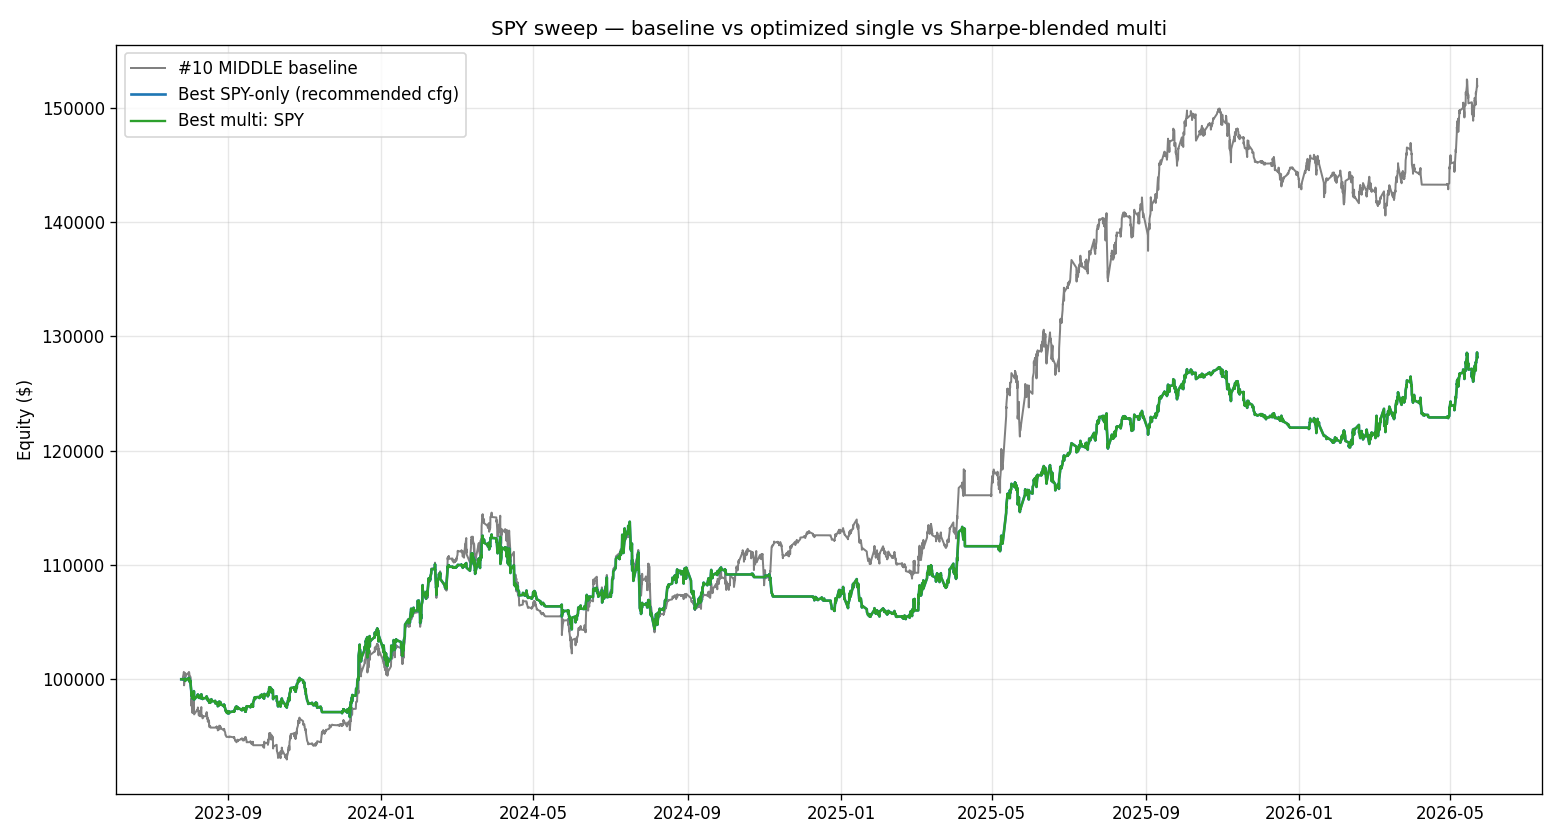
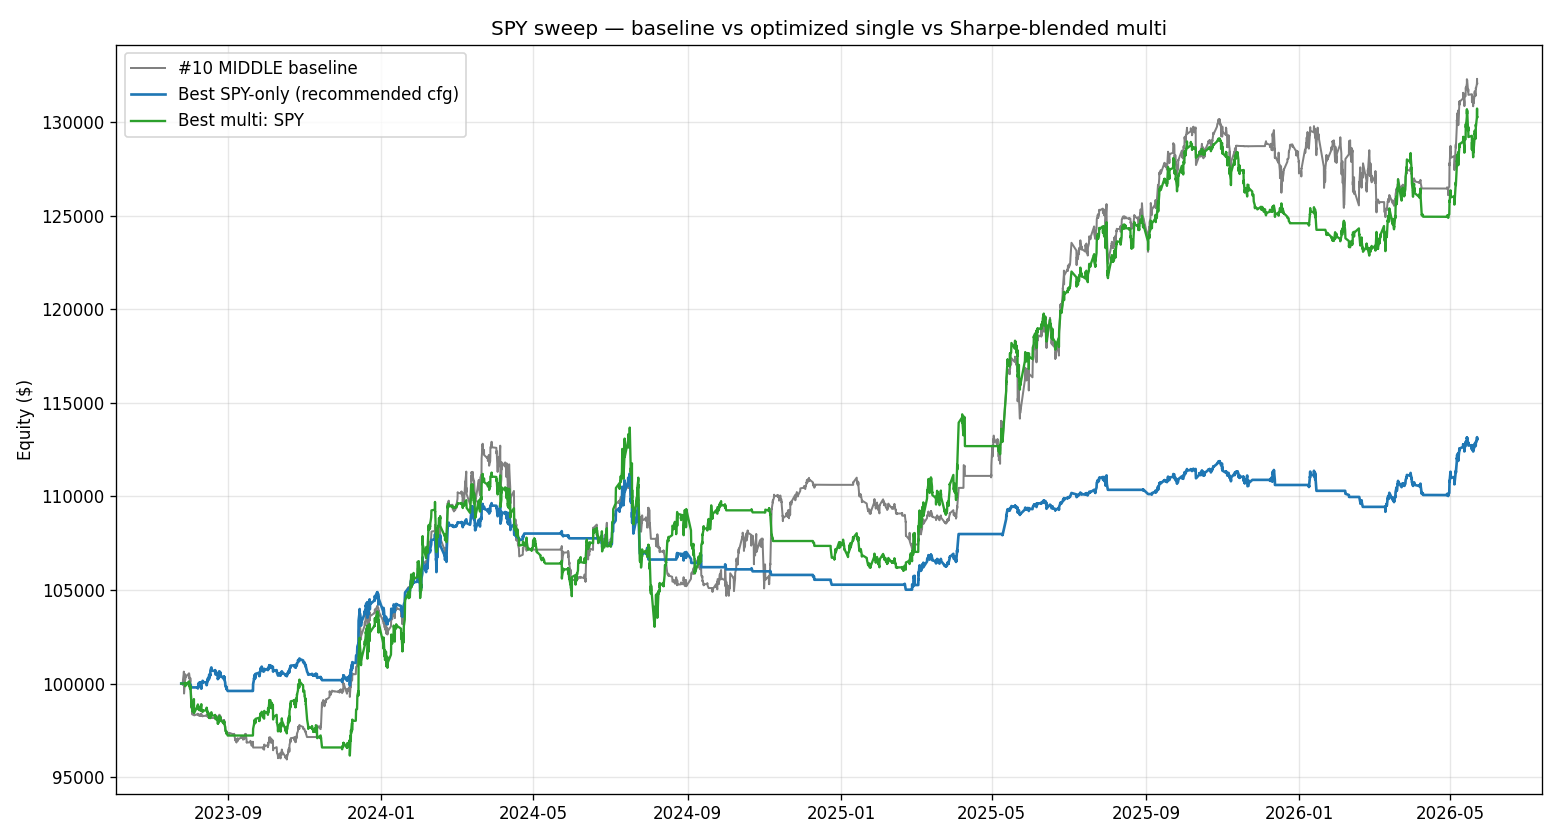
config: trim universe to SPY + GLD + PAXGUSDT (drop DIA)
DIA can't be diversified-into on Infinex (single-venue perp DEX), so
running it added Discord noise without execution value. Three remaining:
  - SPY: equity paper-trading reference
  - GLD: long-history gold baseline (yfinance, 2.83yr clean data)
  - PAXGUSDT: live Infinex perp signal, gated by COMBO_E regime filter

diff --git a/_research_spy_sweep.py b/_research_spy_sweep.py
@@ -80,14 +80,18 @@ def _metrics(eq, tr):
     )
 
 
-def _run(df_base, cfg, symbol="SPY"):
-    """Inject custom-cfg signals onto base df and run portfolio."""
+def _run(df_base, cfg, symbol="SPY", include_trend_carry=False):
+    """Inject custom-cfg signals onto base df and run portfolio.
+
+    By default isolates the pullback sleeve only — that matches the
+    `_research_edge.py` per-strategy attribution numbers (CAGR 12.5% /
+    DD 7.9% / Sharpe 0.52) which is the user's stated baseline.
+    Set include_trend_carry=True to backtest the combined portfolio."""
     df = pullback_signals(df_base, cfg=cfg)
-    spec_pb = StrategySpec("pullback", cfg, pb_exit(cfg))
-    # trend_carry stays at production cfg — sweep targets pullback knobs.
-    spec_tc = StrategySpec("trend_carry", TRENDCARRY, tc_exit(TRENDCARRY))
-    bt = run_portfolio(df, [spec_pb, spec_tc],
-                       symbol=symbol, initial_capital=START_CAP)
+    specs = [StrategySpec("pullback", cfg, pb_exit(cfg))]
+    if include_trend_carry:
+        specs.append(StrategySpec("trend_carry", TRENDCARRY, tc_exit(TRENDCARRY)))
+    bt = run_portfolio(df, specs, symbol=symbol, initial_capital=START_CAP)
     return _metrics(bt["equity_curve"], bt["trades"])
 
 

diff --git a/config/settings.py b/config/settings.py
@@ -25,7 +25,12 @@ class DataConfig:
     # NYSE hours + ADX≥25 (COMBO_F: PF 1.81 / DD 18.3% in validation).
     # All three gold instruments use inverse macro polarity.
     symbols: List[str] = field(default_factory=lambda: [
-        "SPY", "DIA", "GLD", "PAXGUSDT",
+        # Trimmed 2026-05-29 to the three vehicles that map to actual
+        # execution: SPY for equity paper-trading reference, GLD for the
+        # long-history gold backtest baseline, PAXGUSDT for the live
+        # Infinex perp signals (gated by COMBO_E regime filter).
+        # DIA dropped — can't be diversified-into on Infinex anyway.
+        "SPY", "GLD", "PAXGUSDT",
     ])
     start: str = "2024-05-06"
     end: str = "2026-05-06"